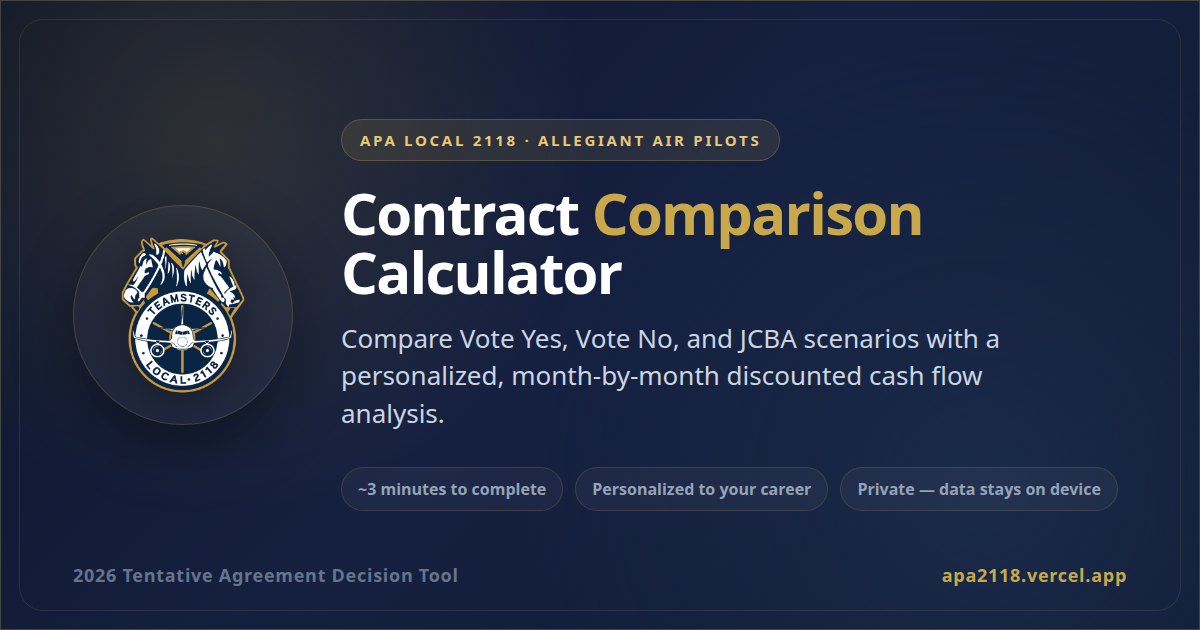
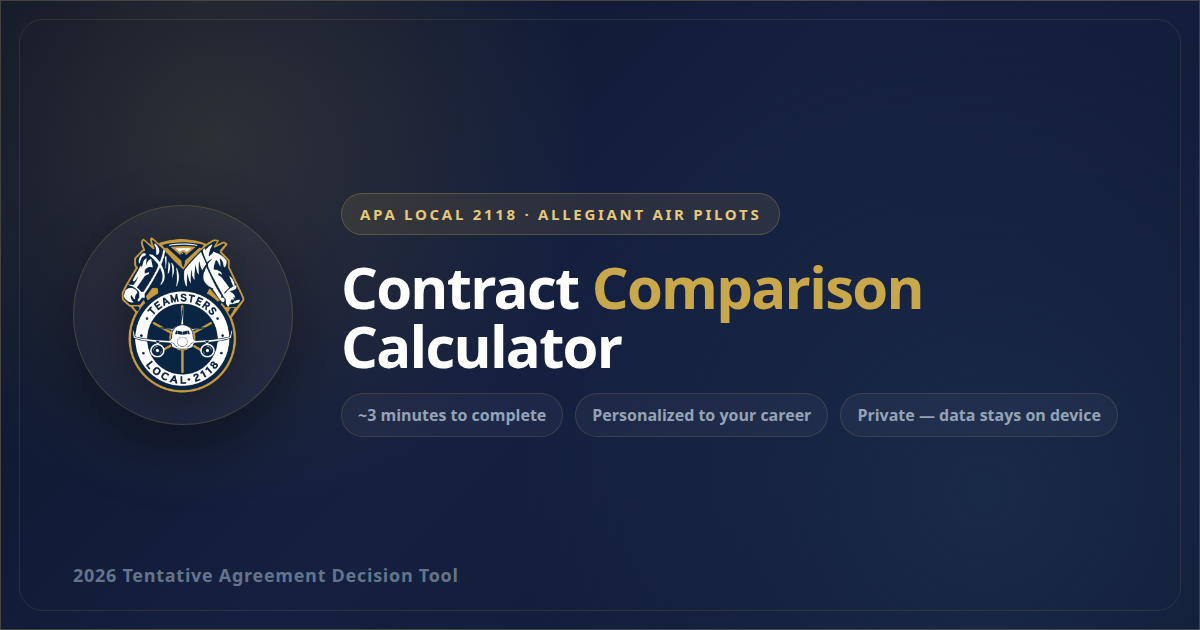
ux: remove subtitle paragraph and URL from OG preview image

diff --git a/scripts/og-image.html b/scripts/og-image.html
@@ -146,10 +146,6 @@
       <div>
         <div class="eyebrow">APA Local 2118 · Allegiant Air Pilots</div>
         <h1 class="title">Contract <span>Comparison</span> Calculator</h1>
-        <p class="subtitle">
-          Compare Vote Yes, Vote No, and JCBA scenarios with a personalized,
-          month-by-month discounted cash flow analysis.
-        </p>
         <div class="features">
           <div class="feature">~3 minutes to complete</div>
           <div class="feature">Personalized to your career</div>
@@ -159,7 +155,6 @@
     </div>
     <div class="footer">
       <span>2026 Tentative Agreement Decision Tool</span>
-      <strong>apa2118.vercel.app</strong>
     </div>
   </div>
 </body>